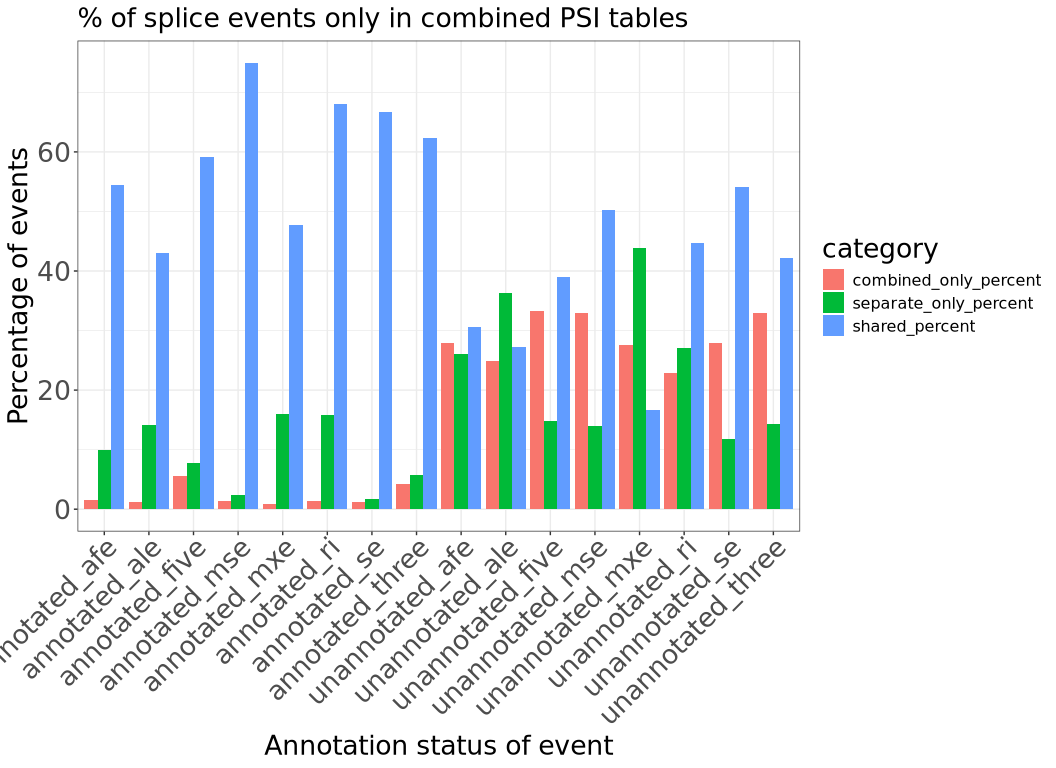
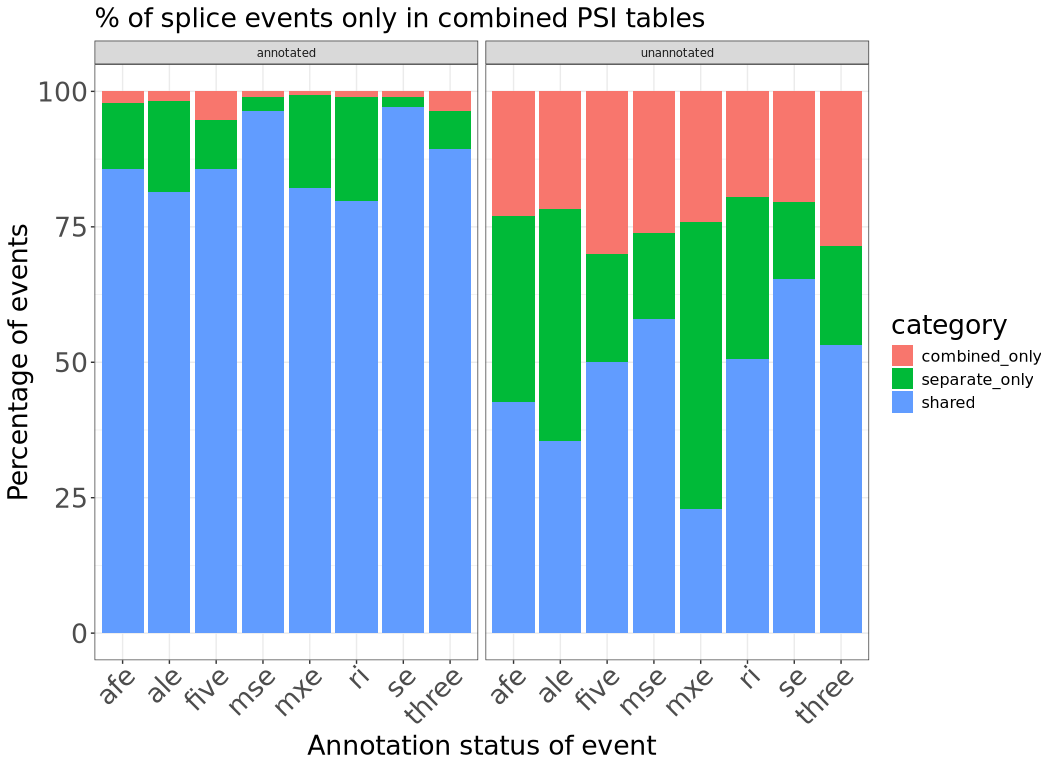
add markdown and figures of all events

diff --git a/exploration/merging-psi-tables/target_pilot/compare_merged_psi_table.md b/exploration/merging-psi-tables/target_pilot/compare_merged_psi_table.md
@@ -1,12 +1,27 @@
 # Compare merged PSI table from TARGET pilot samples
 Cindy Liang (celiang@ucsc.edu)
-2026-04-10
+2026-04-12
 
 As part of our pipeline, we plan to merge Shiba tables created for
 individual samples to obtain a final PSI table of all samples. Before
 doing so, we use this notebook to test that merging PSI tables from
 separate runs will not introduce a large amount of untrustworthy splice
-events or junction counts.
+events.
+
+As part of tracking differences between the two tables, we have labeled
+NA values introduced at various steps of the data processing pipeline
+with different negative values:
+
+- -1: NA values assigned by Shiba (splice events with low coverage)
+
+- -2: NA values from merging the separate tables together (samples have
+  a NA value after this step if there are genes dropped by Shiba for
+  those samples because there is only one transcript detected for that
+  gene)
+
+- NA: NA values from merging the separate and combined tables. These NAs
+  represent splice events that are only found in one analysis method
+  (combined vs. separate)
 
 ## Set up
 
@@ -55,7 +70,9 @@ Read in files
 
 ``` r
 # read merged splice table from separate runs of Shiba on the TARGET pilot samples
-separate_psi_table <- readr::read_tsv(separate_psi_file)
+separate_psi_table <- readr::read_tsv(separate_psi_file) |>
+  # replace remaining NAs from this table representing dropped genes from one sample with no detected splicing for that gene with -2
+  dplyr::mutate(across(contains("_PSI"), \(x) tidyr::replace_na(as.numeric(x), -2)))
 ```
 
     Rows: 818412 Columns: 92
@@ -74,10 +91,11 @@ combined_splice_results_paths <- shiba_psi_paths |>
     readr::read_tsv(path, col_types=readr::cols(.default = "c")) |>
       # select for columns that will be used in downstream analysis
       dplyr::select(pos_id, gene_id, label, contains("_PSI")) |>
-      dplyr::mutate(across(contains("_PSI"), as.numeric))
+      # convert PSI values to numeric and replace NA values from shiba representing low coverage with -1
+      dplyr::mutate(across(contains("_PSI"), \(x) tidyr::replace_na(as.numeric(x), -1)))
   })
 
-# combine psi values of samples run together into one dataframe to compare against separate PSI dataframe
+# combine PSI values of samples run together into one dataframe to compare against separate PSI dataframe
 combined_psi_table <- purrr::list_rbind(combined_splice_results_paths, names_to = "event_type")
 ```
 
@@ -104,8 +122,8 @@ combined table.
 
 To help us prioritize what splice event types we may be the most
 confident in after merging separate Shiba PSI tables, we are interested
-in seeing a breakdown of what event types are most represented in both
-PSI tables
+in seeing a breakdown of what event types are most represented in PSI
+tables constructed from different methods
 
 ``` r
 # obtain df of splice events that are shared between both combined and separate tables
@@ -118,8 +136,8 @@ all_events <- dplyr::full_join(
   # categorize events by whether they are in the combined or separate tables
   dplyr::mutate(
     combined_event = ! dplyr::if_all(ends_with("_combined"), is.na),
-    # separate events are counted if the values for the event are not all NA or -1 (indicating NA introduced from merging)
-    separate_event = ! dplyr::if_all(ends_with("_separate"), ~ sign(.) < 0 | is.na(.)),
+    # separate events are counted if the values for the event are not all NA (indicating the splice event is only found in the combined or separate table)
+    separate_event = ! dplyr::if_all(ends_with("_separate"), is.na),
     shared_event = combined_event & separate_event
   )
 ```
@@ -142,22 +160,22 @@ all_events_summary
 
 | event_type | label | count | shared_percent | combined_only_percent | separate_only_percent |
 |:---|:---|---:|---:|---:|---:|
-| se | annotated | 104872 | 66.72134 | 1.2548631 | 1.634373 |
-| se | unannotated | 32912 | 54.06235 | 27.8773700 | 11.758629 |
-| afe | unannotated | 97616 | 30.59642 | 27.9544337 | 26.050033 |
-| afe | annotated | 180632 | 54.49976 | 1.5301829 | 9.966673 |
-| ale | annotated | 156353 | 43.09863 | 1.1384495 | 14.160905 |
-| ale | unannotated | 62334 | 27.25960 | 24.9382360 | 36.280361 |
-| five | annotated | 35556 | 59.19395 | 5.6277422 | 7.728653 |
-| five | unannotated | 16825 | 39.04903 | 33.3551263 | 14.882615 |
-| three | annotated | 40691 | 62.40201 | 4.1704554 | 5.755573 |
-| three | unannotated | 17214 | 42.11688 | 33.0138260 | 14.238411 |
-| mse | annotated | 64124 | 74.94074 | 1.4269228 | 2.336099 |
-| mse | unannotated | 19434 | 50.31903 | 32.9679942 | 13.908614 |
-| mxe | annotated | 963 | 47.66355 | 0.9345794 | 15.991693 |
-| mxe | unannotated | 481 | 16.63202 | 27.6507277 | 43.866944 |
-| ri | unannotated | 51635 | 44.64026 | 22.8914496 | 27.105645 |
-| ri | annotated | 16349 | 68.07144 | 1.3578812 | 15.756315 |
+| se | annotated | 104872 | 97.13556 | 1.0050347 | 1.859410 |
+| se | unannotated | 32912 | 65.35914 | 20.4697375 | 14.171123 |
+| afe | unannotated | 97616 | 42.63133 | 22.9767661 | 34.391903 |
+| afe | annotated | 180632 | 85.74339 | 2.0887772 | 12.167833 |
+| ale | annotated | 156353 | 81.48740 | 1.7306991 | 16.781897 |
+| ale | unannotated | 62334 | 35.55042 | 21.6382712 | 42.811307 |
+| five | annotated | 35556 | 85.59737 | 5.3268084 | 9.075824 |
+| five | unannotated | 16825 | 50.06835 | 30.0980684 | 19.833581 |
+| three | annotated | 40691 | 89.44730 | 3.5929321 | 6.959770 |
+| three | unannotated | 17214 | 53.20669 | 28.6220518 | 18.171256 |
+| mse | annotated | 64124 | 96.40540 | 1.0183395 | 2.576258 |
+| mse | unannotated | 19434 | 58.05804 | 26.1397551 | 15.802202 |
+| mxe | annotated | 963 | 82.24299 | 0.7268951 | 17.030114 |
+| mxe | unannotated | 481 | 22.86902 | 24.1164241 | 53.014553 |
+| ri | unannotated | 51635 | 50.57229 | 19.4267454 | 30.000968 |
+| ri | annotated | 16349 | 79.80916 | 0.9664200 | 19.224417 |
 
 ### Visualize breakdown of shared events with stacked bar plots
 
@@ -167,19 +185,20 @@ long_all_events_summary <- all_events_summary |>
   tidyr::pivot_longer(
     cols = c(shared_percent, combined_only_percent, separate_only_percent),
     names_to = "category",
-    values_to = "percent"
-  ) |>
-  # concatenate event type and label so unannotated and annotated events can be plotted together
-  tidyr::unite(label_event_type, c("label", "event_type"))
+    values_to = "percent",
+    # remove percent suffix for display
+    names_pattern = "(.+)_percent"
+  )
 
-ggplot(long_all_events_summary, aes(fill = category, x = label_event_type, y = percent)) +
-  geom_bar(position = "dodge", stat = "identity") +
+ggplot(long_all_events_summary, aes(fill = category, x = event_type, y = percent)) +
+  geom_bar(position = "stack", stat = "identity") +
   plot_theme +
   labs(
     title = "% of splice events only in combined PSI tables",
     x = "Annotation status of event",
     y = "Percentage of events"
   ) +
+  facet_wrap(vars(label)) +
   scale_x_discrete(guide = guide_axis(angle = 45)) +
   plot_theme
 ```
@@ -229,6 +248,7 @@ length(combined_only_list)
 Pivot longer to create scatter plots
 
 ``` r
+# Pivot all events df longer
 long_all_events <- all_events |>
   tidyr::pivot_longer(
     cols = matches("_combined|_separate"),
@@ -237,86 +257,141 @@ long_all_events <- all_events |>
     names_pattern = "(.*)_(combined|separate)"
   )
 
-# pivot wider for scatterplots
+# convert negative PSI values to NA so they will be dropped in the correlation calculations
+long_all_events_na <- long_all_events |>
+  dplyr::mutate(
+    PSI = dplyr::na_if(PSI, -1),
+    PSI = dplyr::na_if(PSI, -2)
+      )
 
-all_events_by_method <- long_all_events |> tidyr:: pivot_wider(
+# pivot wider for correlation calculations
+all_events_by_method <- long_all_events_na |> tidyr:: pivot_wider(
     names_from = method,
     values_from = PSI
   )
 ```
 
-Make scatter plot of unannotated events
+### Create table of correlation scores for shared event
 
 ``` r
-long_unannotated <- all_events_by_method |>
-  dplyr::filter(label == "unannotated")
-
-  ggplot(long_unannotated) +
-    aes(
-      # read in columns to use for x and y from input
-      x = combined,
-      y = separate,
-    ) +
-    geom_point(size = 0.5, alpha = 0.5) +
-    labs(
-      title = "Spearman correlation of unannotated shared splice events",
-      x = "Combined run PSI values",
-      y = "Separate run PSI values") +
-    facet_wrap(vars(event_type)) +
-
-    ggpubr::stat_cor(method = "spearman", label.x = 0.2, label.y = -0.1, color = "blue")
+correlation_df <- all_events_by_method |>
+  dplyr::summarize(
+    .by = event_type,
+    # correlation coefficients are overestimated here because we remove incomplete observations
+    pearson_r = cor(combined, separate, method = "pearson", use = "complete.obs"),
+    pearson_r2 = pearson_r * pearson_r,
+    spearman_rho = cor(combined, separate, method = "spearman", use = "complete.obs")
+  )
+  
+# print correlation table
+correlation_df
 ```
 
-    Warning: Removed 25807211 rows containing non-finite outside the scale range
-    (`stat_cor()`).
+| event_type | pearson_r | pearson_r2 | spearman_rho |
+|:-----------|----------:|-----------:|-------------:|
+| se         |         1 |          1 |            1 |
+| afe        |         1 |          1 |            1 |
+| ale        |         1 |          1 |            1 |
+| five       |         1 |          1 |            1 |
+| three      |         1 |          1 |            1 |
+| mse        |         1 |          1 |            1 |
+| mxe        |         1 |          1 |            1 |
+| ri         |         1 |          1 |            1 |
 
-    Warning: Removed 25807211 rows containing missing values or values outside the scale
-    range (`geom_point()`).
+Check whether events are equal
 
-<div id="fig-unannotated_psi_correlation">
+``` r
+# omit NAs 
+complete_all_events_by_method <- na.omit(all_events_by_method)
+
+# check if shared events are equal
+all.equal(complete_all_events_by_method$combined, complete_all_events_by_method$separate)
+```
+
+    [1] TRUE
+
+All shared events have identical PSI values in tables created by the two
+methods.
+
+## Check PSI distributions of combined events missed in the separate table
+
+Examine PSI distributions in combined table of events missed by the
+separate table, and then the reverse (is there a threshold of PSI where
+events become shared?)
+
+### Plot PSI distributions of events only found in combined table
+
+``` r
+# make dataframe of unannotated PSI values of splice events only in the combined dataframe
+
+combined_only_df <- all_events_by_method |>
+  dplyr::filter(pos_id %in% combined_only_list) |>
+  dplyr::select(-separate) |>
+  na.omit()
+
+# check dimensions of each
+dim(combined_only_df)
+```
+
+    [1] 2898101       9
+
+``` r
+length(combined_only_list)
+```
+
+    [1] 72021
+
+``` r
+# plot distributions of unannotated and annotated PSI values only found in the combined table
+ggplot(combined_only_df, aes(combined)) + geom_histogram() +
+  facet_wrap(vars(event_type, label))
+```
+
+    `stat_bin()` using `bins = 30`. Pick better value `binwidth`.
+
+<div id="fig-combined_only_psi_dist">
 
 <img
-src="compare_merged_psi_table_files/figure-commonmark/fig-unannotated_psi_correlation-1.png"
-id="fig-unannotated_psi_correlation" />
+src="compare_merged_psi_table_files/figure-commonmark/fig-combined_only_psi_dist-1.png"
+id="fig-combined_only_psi_dist" />
 
 Figure 2
 
 </div>
 
-Make scatterplot of annotated events
+### Plot PSI distributions of events only found in separate table
 
 ``` r
-long_annotated <- all_events_by_method |>
-  dplyr::filter(label == "annotated")
+separate_only_df <- all_events_by_method |>
+  dplyr::filter(pos_id %in% separate_only_list) |>
+  dplyr::select(-combined) |>
+  na.omit()
 
-
-  ggplot(long_annotated) +
-    aes(
-      # read in columns to use for x and y from input
-      x = combined,
-      y = separate,
-    ) +
-    geom_point(size = 0.5, alpha = 0.5) +
-    labs(
-      title = "Spearman correlation of annotated shared splice events",
-      x = "Combined run PSI values",
-      y = "Separate run PSI values") +
-    facet_wrap(vars(event_type)) +
-
-    ggpubr::stat_cor(method = "spearman", label.x = 0.2, label.y = -0.1, color = "blue")
+# check dimensions of each
+dim(separate_only_df)
 ```
 
-    Warning: Removed 40545300 rows containing non-finite outside the scale range
-    (`stat_cor()`).
+    [1] 1357565       9
 
-    Warning: Removed 40545300 rows containing missing values or values outside the scale
-    range (`geom_point()`).
+``` r
+length(separate_only_list)
+```
 
-<div id="fig-annotated_psi_correlation">
+    [1] 139412
+
+``` r
+# plot distributions of unannotated and annotated PSI values only found in the combined table
+ggplot(separate_only_df, aes(separate)) + geom_histogram() +
+  facet_wrap(vars(event_type, label))
+```
+
+    `stat_bin()` using `bins = 30`. Pick better value `binwidth`.
+
+<div id="fig-separate_only_psi_dist">
 
 <img
-src="compare_merged_psi_table_files/figure-commonmark/fig-annotated_psi_correlation-1.png"
-id="fig-annotated_psi_correlation" />
+src="compare_merged_psi_table_files/figure-commonmark/fig-separate_only_psi_dist-1.png"
+id="fig-separate_only_psi_dist" />
 
 Figure 3
 
@@ -334,16 +409,20 @@ Figure 3
   events, which are the event types we are hoping to capture most in the
   splice compendium
 
-- If we only look at splice events shared between both separate and
-  combined PSI tables, the PSI values appear identical. We may be able
-  to be more confident in our splice table if we filter out everything
-  with NA values (limit ourselves to PSI values of events found in all
-  samples), but this may severely shrink down the number of splice
-  events in the compendium.
+- About 30% of unannotated splice events are only found in the combined
+  tables, meaning they are missed in the separate tables method
 
-A next step for this notebook will be to compare the number of NA values
-in each table (I suspect there will be many more NAs in the separate
-tables)
+- If we only look at splice events shared between both separate and
+  combined PSI tables, the PSI values are identical.
+
+- Unfortunately, PSI values of events only found in the combined or
+  separate tables span the entire PSI distribution (0-1) so there is no
+  easy way to set a filter to exclude values that are not found in the
+  combined table.
+
+A next step for this analysis will be to compare the number of NA values
+in each table and examine how many of each type of NA value are present
+in each method
 
 Another note here is that we assume the splice events in the combined
 table are the ground truth, but a separate kind of evaluation would be
